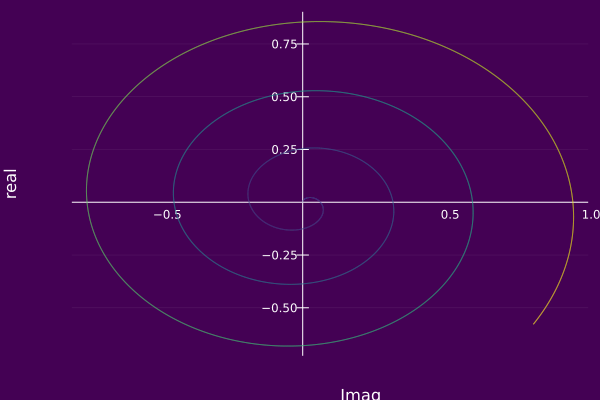
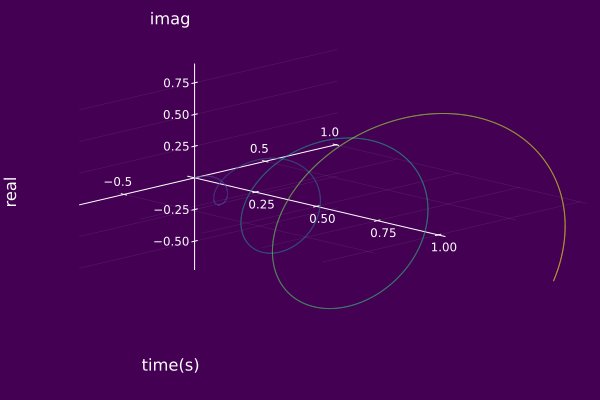
edit numerical AMFMcomp visualization

diff --git a/docs/src/numerical/components.md b/docs/src/numerical/components.md
@@ -66,13 +66,14 @@ t = 0:1/fs:1
 
 ## Visualizing a Numerical AM--FM Component
 
-We can visualize an  **numerical AM--FM component** `𝚿₀` [`numComp`] by evoking a pre-defined plotting recipe by calling `plot()` from [`Plots.jl`](http://docs.juliaplots.org/latest/) with **AM--FM component** `ψ₀` [`AMFMcomp`].
+We can visualize an  **numerical AM--FM component** `𝚿₀` [`numComp`] by evoking a pre-defined plotting recipe by calling `plot()` from [`Plots.jl`](http://docs.juliaplots.org/latest/) with **numerical AM--FM component** `𝚿₀` [`numComp`].
+
 ```@example
 using ISA, Plots
 ψ₀ = AMFMcomp(t->t,t->25cos(t),0.0)
 fs = 16_000
 t = 0:1/fs:1
 𝚿₀ = numComp( ψ₀(t), fs )
-plot(𝚿₀,view="IR")
+plot(𝚿₀)
 ```
 ![](https://raw.githubusercontent.com/NMSU-ISA/ISA/master/docs/src/assets/IS_num_exAMFMcomp1.png)
